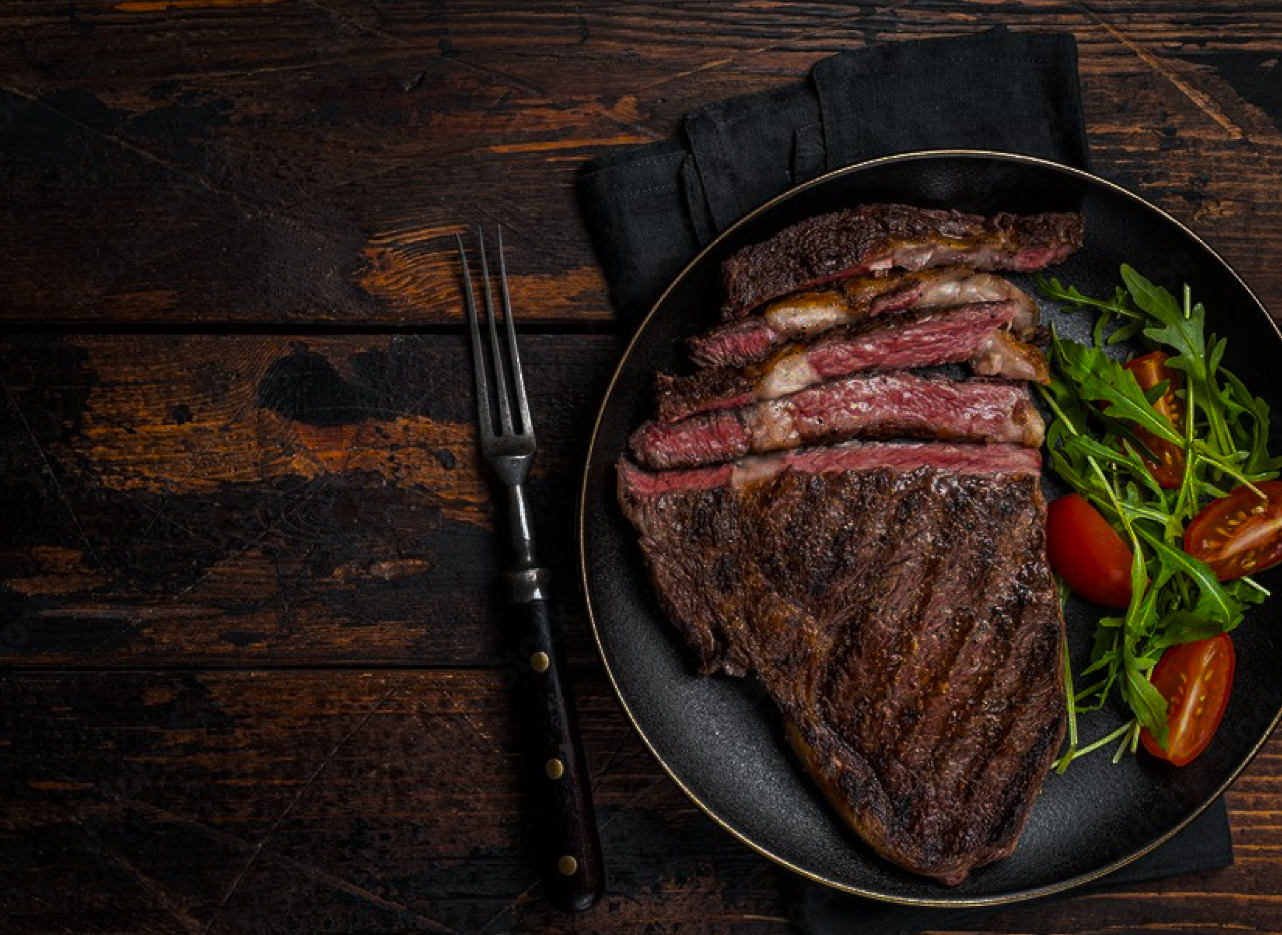
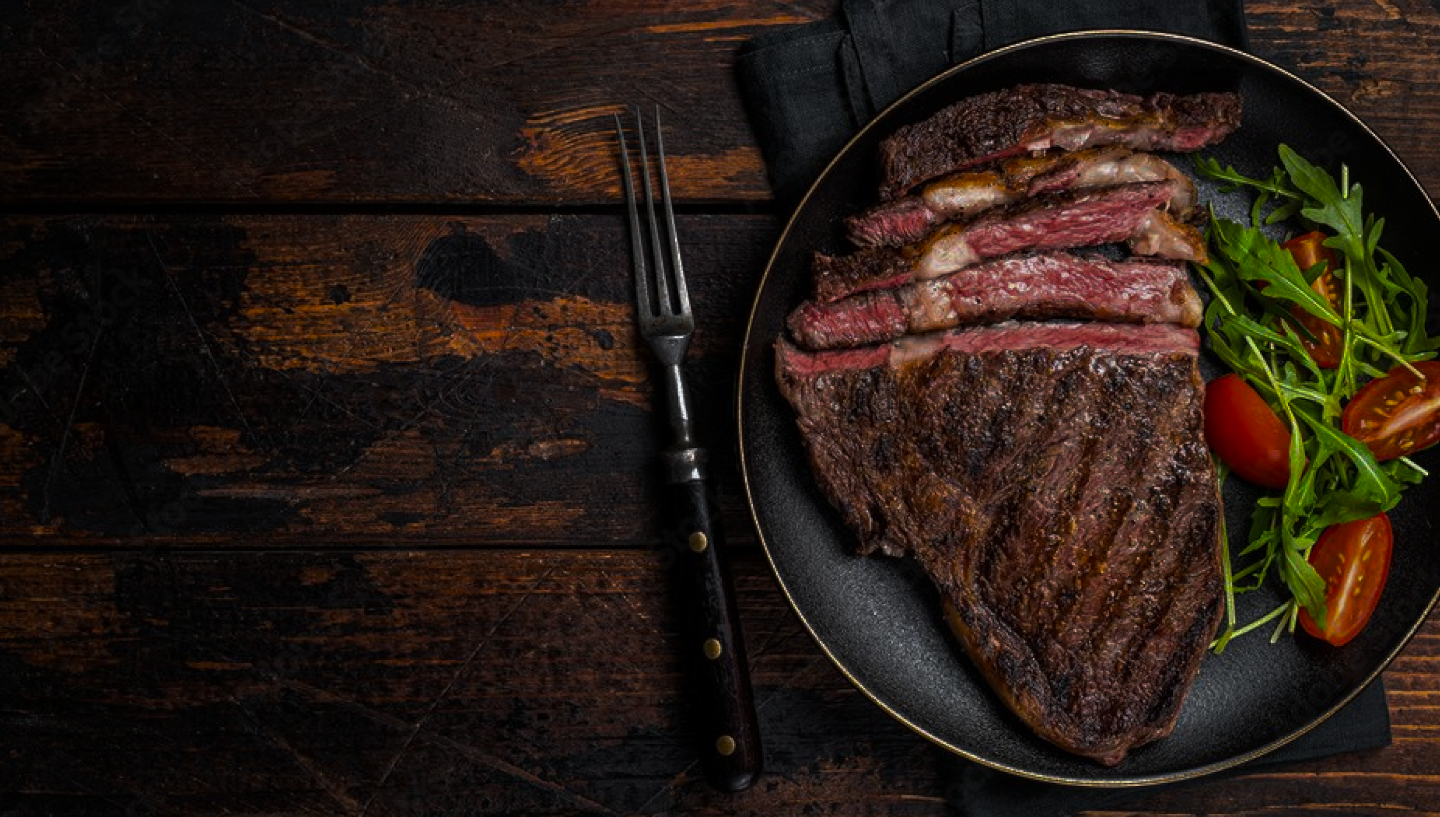
Arrumado header e imagens

diff --git a/style.css b/style.css
@@ -9,7 +9,8 @@ body {
 }
 
 #firstSection {
-    background-image: url(imgs/firstSection___a.png);
+    background-image: url(imgs/firstSection___.png);
+    background-size: cover;
     height: 100vh;
 }
 
@@ -23,14 +24,16 @@ header {
     flex-direction: row;
     align-items: center;
     justify-content: space-around;
-    gap: 200px;
+    gap: 100px;
+    background-color: #3411009c;
 }
 
 nav {
     display: flex;
     flex-direction: row;
     align-items: center;
-    gap: 80px;
+    justify-content: center;
+    gap: 3%;
 }
 
 nav a {
@@ -41,19 +44,41 @@ nav a {
     font-family: 'Open Sans';
     font-style: normal;
     font-size: 24px;
-    font-weight: 700;
-    letter-spacing: -0.04em;
-    text-align: center;
     background: hsba(0, 0%, 100%, 1);
 }
 
-#main1 {
+nav a div {
+    background-color: rgba(161, 159, 155, 0.3);
+    padding: 8px;
+    border-radius: 10px;
+    width: 220px;
+    height: 40px;
+    display: flex;
+    flex-direction: column;
+    align-items: center;
+    justify-content: center;
+}
+
+h2 {
+    font-family: 'Goblin One';
+    font-size: 40px;
+    font-weight: 400;
+    line-height: 50px;
+    letter-spacing: 0em;
+    text-align: center;
+    height: 115px;
+    width: 670px;
+    left: 13px;
+    top: 321.5px;
+}
+
+main1 {
     padding: 10px;
-    margin-top: 5%;
+    margin-top: 100%;
 }
 
 .imgLogo {
-    width: 295px;
+    width: 310px;
 }
 
 #arrowToTheTop {

diff --git a/index.html b/index.html
@@ -13,25 +13,13 @@
         <header>
             <img src="imgs/LogoChefia.png" alt="Logo CHEFIA" class="imgLogo">
             <nav>
-                <a href="#"><strong>PRATOS <br> POPULARES</strong></a>
-                <a href="#"><strong>DIA A DIA</strong></a>
-                <a href="#"><strong>RECOMENDADOS</strong></a>
+                <a href="#"><div><strong>PRATOS <br> POPULARES</div></strong></a>
+                <a href="#"><div><strong>DIA A DIA</strong></div></a>
+                <a href="#"><div><strong>RECOMENDADOS</strong></div></a>
             </nav>
         </header>
         <main id="main1">
-            <h2 style="font-family: Goblin One;
-            font-size: 40px;
-            font-weight: 400;
-            line-height: 50px;
-            letter-spacing: 0em;
-            text-align: center;
-            height: 114px;
-            width: 670px;
-            left: 13px;
-            top: 321.5301208496094px;
-            border-radius: nullpx;
-
-            ">O melhor guia gastronômico</h2>
+            <h2>O melhor guia gastronômico</h2>
             <div style="font-family: Gochi Hand;
             font-size: 32px;
             font-weight: 400;
